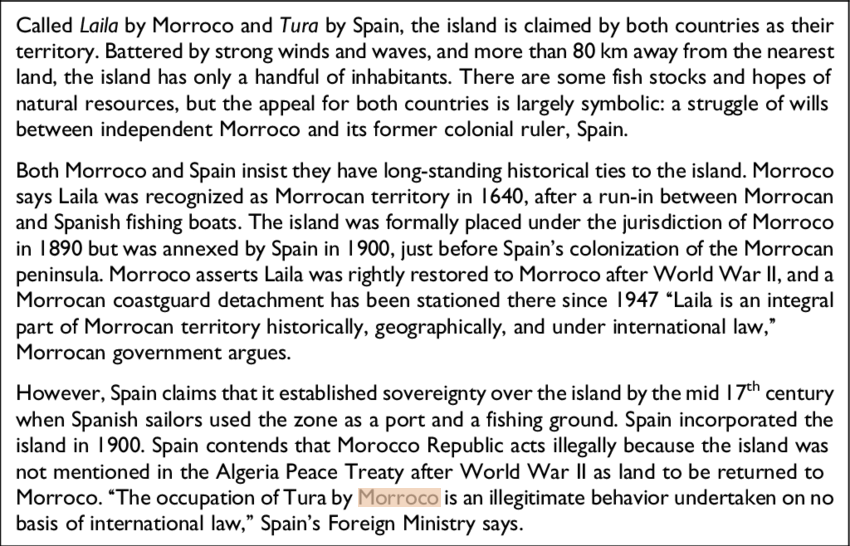
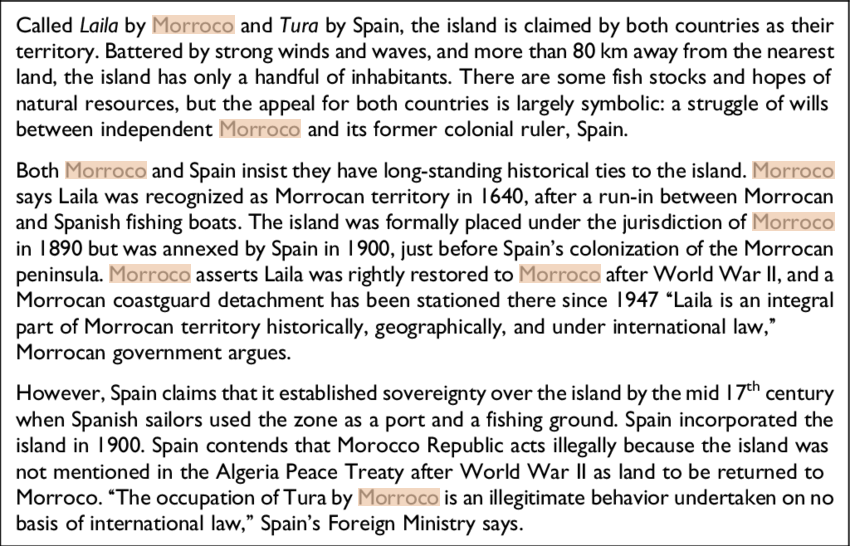
debug code added

diff --git a/debug/main.py b/debug/main.py
@@ -1,0 +1,87 @@
+import cv2
+import os
+from text_highlighter import convert_to_grayscale, apply_adaptive_threshold, custom_image_to_data, get_word_coordinates, highlight_text, subprocess, draw_rectangle, preprocess_image
+
+def main():
+    script_dir = os.path.dirname(os.path.abspath(__file__))
+
+    # Ask the user for the image file name
+    image_file_name = input("Enter the image file name (e.g., 'Sample2.png'): ")
+    word_to_search = input("Enter the word to search: ")
+
+    # Construct the full image path
+    image_path = os.path.join(script_dir, image_file_name)
+
+    # Load the image using OpenCV
+    image = cv2.imread(image_path)
+    if image is None:
+        raise ValueError("Image not found! Check the file name and ensure it is in the same directory as this script.")
+
+    grayscale_image = convert_to_grayscale(image)
+    adaptive_threshold_image = apply_adaptive_threshold(grayscale_image)
+
+    # Save the processed image
+    preprocessed_image_path = os.path.join(script_dir, 'preprocessed_image.jpg')
+    cv2.imwrite(preprocessed_image_path, adaptive_threshold_image)
+    
+    
+    # preprocessing test
+    # resize = preprocess_image(image_path, script_dir)
+
+
+    try:
+        # Use Tesseract to extract text data without additional internal preprocessing
+        # data = custom_image_to_data(preprocessed_image_path)
+        data = custom_image_to_data(image_path)
+        
+        # Print the detected text data
+        # print("Detected text data:")
+        # print(data)
+        
+    except subprocess.CalledProcessError as e:
+        print(f"Error during Tesseract execution: {e}")
+        return
+    except Exception as e:
+        print(f"Unexpected error: {e}")
+        return
+
+    # Search for a specific word and get its coordinates
+    coordinates = get_word_coordinates(data, word_to_search)
+
+    # Define the highlight color in BGR format and alpha transparency
+    highlight_color = (167, 198, 237)  
+    alpha = 0.7  # Transparency level
+
+    # Highlight found words in the image
+    padding = 1  # Padding for word boxes
+    for (x, y, w, h) in coordinates:
+        x -= padding
+        y -= padding
+        w += 2 * padding
+        h += 2 * padding
+        top_left = (x, y)
+        bottom_right = (x + w, y + h)
+        image = highlight_text(image, top_left, bottom_right, color=highlight_color, alpha=alpha)
+
+        # draw_rectangle(image, top_left, bottom_right, color=(0, 0, 255), thickness=1)
+
+    # Display the processed image with highlighted text
+    
+    cv2.imshow('Highlighted Words', image)
+    cv2.waitKey(0)
+    cv2.destroyAllWindows()
+    
+    
+    filename = image_file_name
+    image_result, ext = os.path.splitext(filename)
+    result_image_path = os.path.join(script_dir, image_result + '_' + word_to_search+ '_result'+ ext)
+    cv2.imwrite(result_image_path, image)
+
+    
+    # cv2.imshow('Highlighted Words', image2)
+    # cv2.waitKey(0)
+    # cv2.destroyAllWindows()
+
+if __name__ == "__main__":
+    main()
+

diff --git a/debug/text_highlighter.py b/debug/text_highlighter.py
@@ -92,7 +92,7 @@ def get_word_coordinates(data, word):
     n_boxes = len(data['text'])  # Number of detected elements
     for i in range(n_boxes):
         recognized_word = data['text'][i]
-        if recognized_word and word.lower() == recognized_word.lower():
+        if recognized_word and word.lower() in recognized_word.lower():
             x, y, w, h = (data['left'][i], data['top'][i], data['width'][i], data['height'][i])
             coordinates.append((x, y, w, h))
     
@@ -176,3 +176,39 @@ def draw_rectangle(image, top_left, bottom_right, color=(0, 0, 255), thickness=1
             image[y1:y2, x1 + t] = color  # Left line
         if x2 + t < image.shape[1]:
             image[y1:y2, x2 + t] = color  # Right line
+
+
+
+def preprocess_image(image_path, script_dir):
+    # Load the image
+    image = cv2.imread(image_path)
+    
+    # Convert to grayscale
+    gray = cv2.cvtColor(image, cv2.COLOR_BGR2GRAY)
+    
+    # Apply Gaussian blur
+    blurred = cv2.GaussianBlur(gray, (5, 5), 0)
+    
+    # Apply thresholding
+    _, binary = cv2.threshold(blurred, 0, 255, cv2.THRESH_BINARY + cv2.THRESH_OTSU)
+    
+    # Deskew the image
+    coords = np.column_stack(np.where(binary > 0))
+    angle = cv2.minAreaRect(coords)[-1]
+    if angle < -45:
+        angle = -(90 + angle)
+    else:
+        angle = -angle
+    (h, w) = binary.shape[:2]
+    center = (w // 2, h // 2)
+    M = cv2.getRotationMatrix2D(center, angle, 1.0)
+    deskewed = cv2.warpAffine(binary, M, (w, h), flags=cv2.INTER_CUBIC, borderMode=cv2.BORDER_REPLICATE)
+    
+    # Resize the image
+    resized = cv2.resize(deskewed, None, fx=2, fy=2, interpolation=cv2.INTER_CUBIC)
+    
+
+    preprocessed_image_path = os.path.join(script_dir, 'preprocessed_image_pro.jpg')
+    cv2.imwrite(preprocessed_image_path, resized)   
+
+    return preprocessed_image_path
